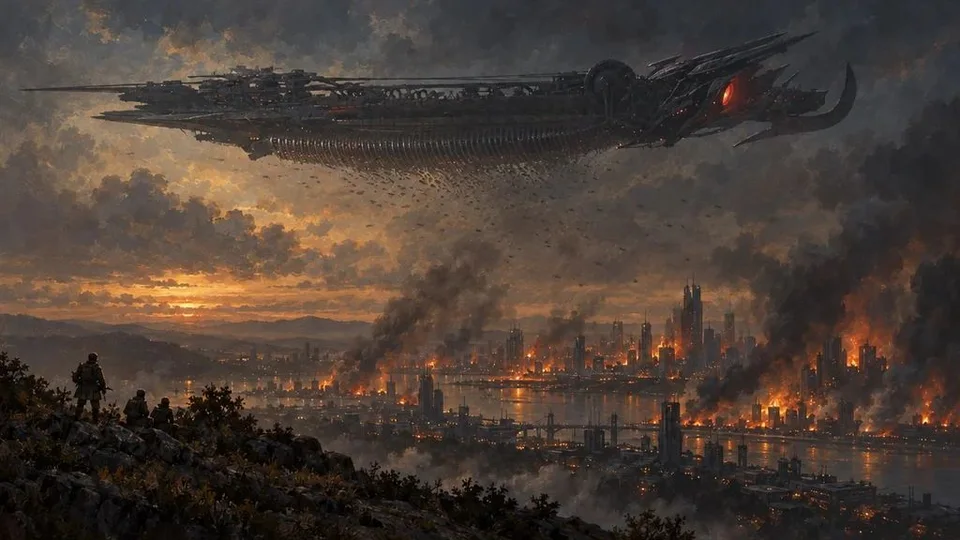
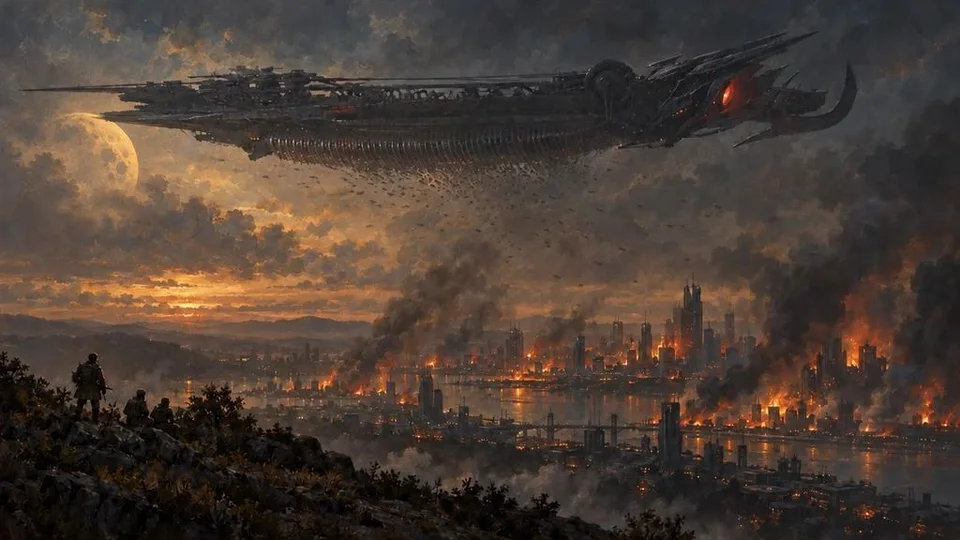
Ztracená letka: obrázek s měsícem Caliban 2a (schválil Daniel)
Claude-Session: https://claude.ai/code/session_019nmCp42rAmbc4M4RKrxxCM

Changed region(s): [[0.0, 0.1778, 0.1875, 0.4444], [0.5312, 0.6815, 0.5625, 0.7111]]

diff --git a/pribehy-ztracena-letka.html b/pribehy-ztracena-letka.html
@@ -8,7 +8,7 @@ obrazek:
   soubor: /assets/kapitoly/ztracena-letka.webp
   sirka: 960
   vyska: 540
-  alt: "Ilustrace: vanduulský Kingship nad hořícím městem na Crionu, z kopce to sledují tři lidé"
+  alt: "Ilustrace: vanduulský Kingship nad hořícím městem na Crionu, na obloze žlutý měsíc Caliban 2a, z kopce to sledují tři lidé"
   popisek: "Ilustrační obrázek"
 souvisi:
   url: /kapitoly/pad-calibanu/
